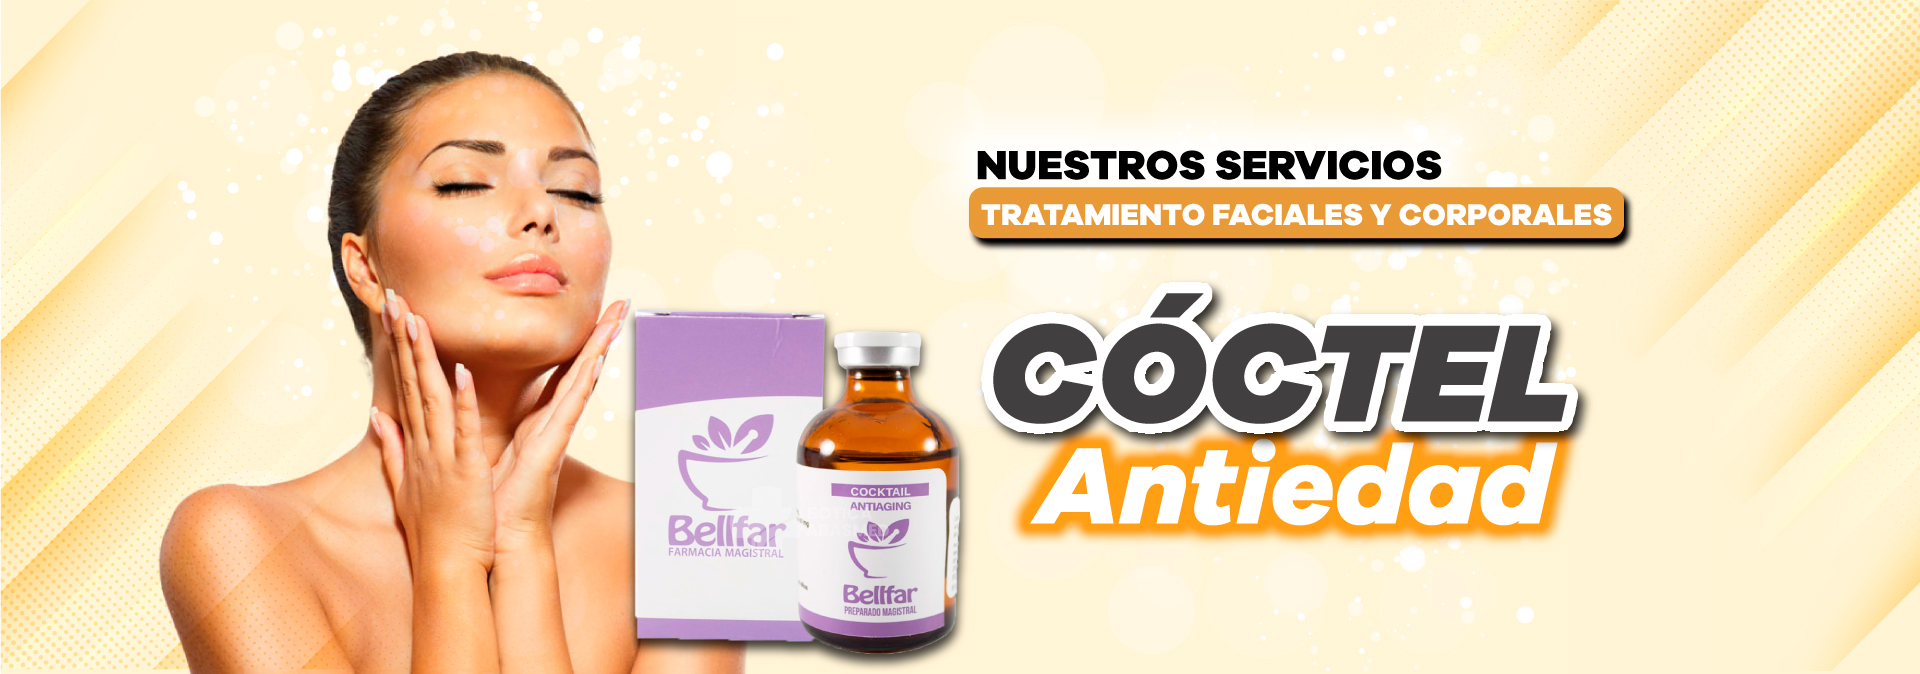
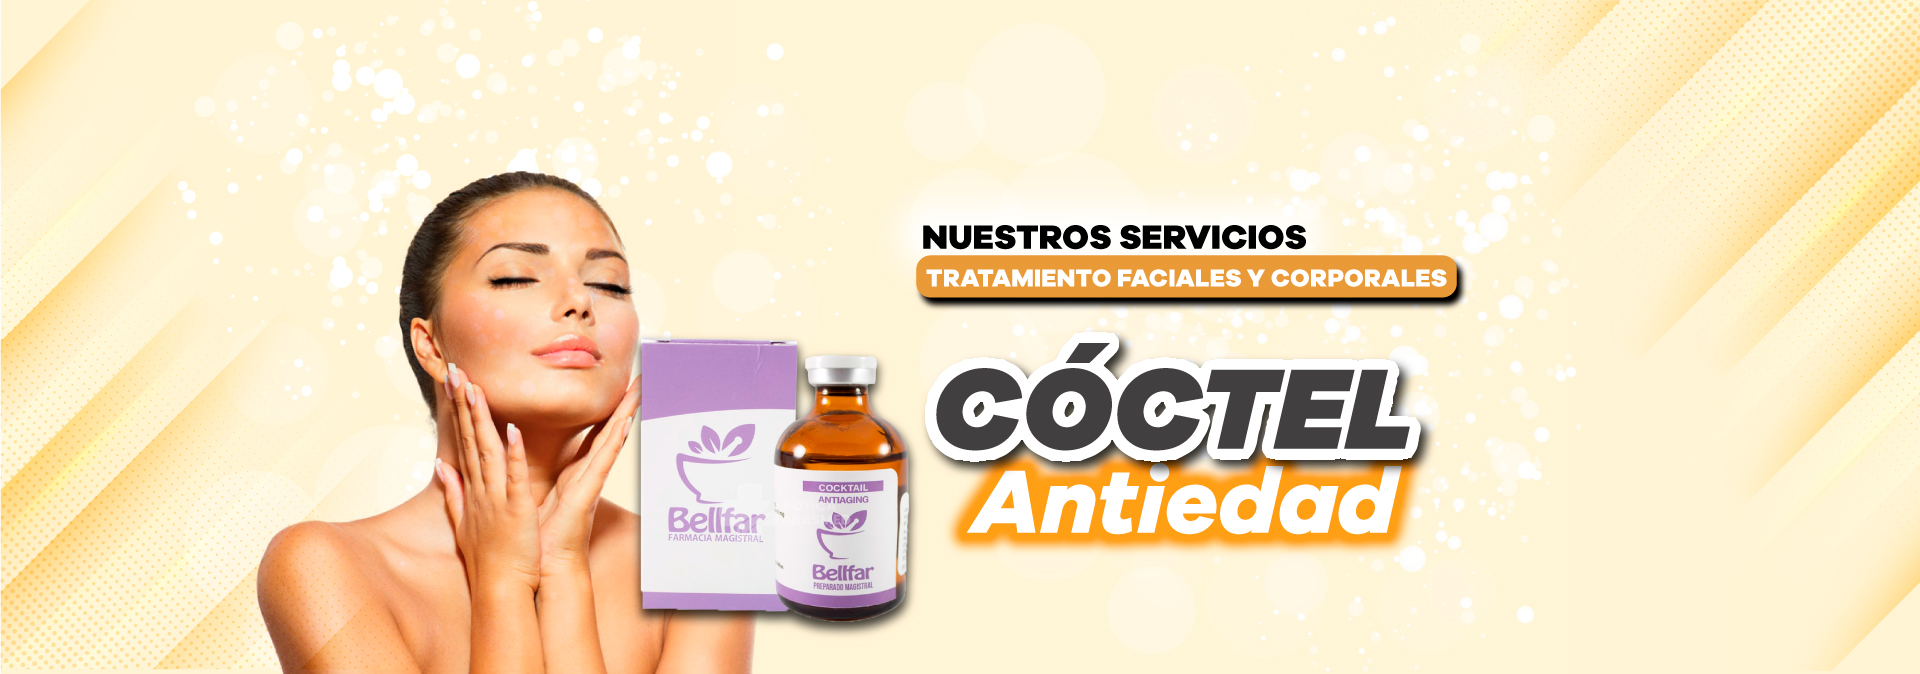
Commit: Agregando la informacion de la clinica

diff --git a/index.html b/index.html
@@ -8,6 +8,7 @@
 </head>
 <body>
 
+
   <!-- Top Bar -->
   <header>
     <div class="top-bar">
@@ -32,42 +33,65 @@
   <!-- Carrusel principal -->
   <section class="carousel">
     <div class="slides">
+      <div class="slide" style="background-image: url('imagenes/banner-3.jpg');"></div>
       <div class="slide" style="background-image: url('imagenes/banner-1.jpg');"></div>
-      <div class="slide" style="background-image: url('imagenes/banner-2.jpg');"></div>
-      <div class="slide" style="background-image: url('imagenes/baner.jpg.jpeg');"></div>
+           <div class="slide" style="background-image: url('imagenes/banner-2.jpg');"></div>
+      
     </div>
-    <div class="hero-overlay">
-      <h2>Especialistas en definir tu belleza</h2>
-      <p>Cirugía Plástica y Estética en Chiclayo</p>
-      <a href="#contacto" class="btn-cita">Separar Cita</a>
-    </div>
+  
   </section>
+
+
+
 
   <!-- Sección Quiénes somos -->
   <section id="quienes" class="quienes-somos">
-    <h2>Quiénes somos</h2>
-    <p>Somos Clínica REVITALIZA, Cirugía Plástica y Estética. Nuestros tratamientos son el complemento perfecto para cuidar tu salud y a la vez obtener los mejores beneficios para sentirte y verte bien.</p>
-    <p>Contamos con médicos especialistas con más de 15 años de experiencia, aplicando protocolos de alta seguridad en lipoescultura y cirugía estética.</p>
+    <h2>Especialistas en definir tu belleza</h2>
+    <p>¡Hola! Somos Clínica REVITALIZA, Cirugía Plástica y Estética . 
+  Nuestros tratamientos son el complemento perfecto para cuidar tu 
+  salud y a la vez obtener los mejores beneficios para sentirte y verte 
+  bien. Contamos con un selecto sta de médicos especialistas 
+  altamente competentes con más de 15 años de experiencia, 
+  quienes constantemente actualizan sus conocimientos para 
+  brindarte el mejor de los servicios.
+  Nuestra misión es “Realzar la belleza natural y crear nexos de 
+  confianza con nuestros pacientes”; por ese motivo, trabajamos 
+  bajo un Protocolo de Alta Seguridad en Lipoescultura y Cirugía 
+  Estética, que garantiza intervenciones seguras y con resultados 
+  eficientes, que no comprometen la integridad ni la salud de 
+  nuestros pacientes.</p>
+
+
   </section>
 
   <!-- Sección Servicios -->
   <section id="servicios" class="servicios">
-    <h2>Nuestros Servicios</h2>
-    <ul>
-      <li>✅ PRP Dermapen</li>
-      <li>✅ Toxina Botulínica Full Face</li>
-      <li>✅ Ácido Hialurónico</li>
-      <li>✅ Radiesse Estimulador</li>
-      <li>✅ Plasma Rico en Plaquetas Capilares</li>
-      <li>✅ Peptonas TONEGIRL</li>
-      <li>✅ Mesoterapia con Ácido Tranexámico</li>
-      <li>✅ Sculptra Bioestimulador</li>
-    </ul>
+    <h2>Principales Especialidades y
+ Tratamientos</h2>
+
+     <section class="image-galery">
+        
+        <div class="image-card">
+        <img src="servicios/1.jpg" alt="Descripción de la imagen 1">
+        <h3 class="image-title">Código HTML con la estructura BEM</h3>
+      </div>
+
+      <div class="image-card">
+      <img src="servicios/2.jpg" alt="Descripción de la imagen 2">
+      <h3 class="image-title">Aquí se observa como queda en CSS dicha nomenclatura</h3>
+     </div>
+  </section>
+
+
   </section>
 
   <!-- Sección Sede -->
   <section id="sedes" class="sede">
     <h2>¡Encuéntranos en Sede Chiclayo!</h2>
+
+
+   <iframe class="ubicacion" src="https://www.google.com/maps/embed?pb=!1m18!1m12!1m3!1d3961.9689255967282!2d-79.8384004!3d-6.773636599999999!2m3!1f0!2f0!3f0!3m2!1i1024!2i768!4f13.1!3m3!1m2!1s0x904cef2855da6aaf%3A0x63750422f166f2c2!2sTorres%20Paz%20714%2C%20Chiclayo%2014001!5e0!3m2!1ses!2spe!4v1751090313506!5m2!1ses!2spe" 
+   allowfullscreen="" loading="lazy" referrerpolicy="no-referrer-when-downgrade"></iframe>
     <p>📍 Calle Torres Paz #714 (Entre 7 de Enero y Av. Balta)</p>
     <p>🕒 Lunes a Sábado: 9:00AM - 8:00PM | Domingo: Consultas por WhatsApp</p>
   </section>

diff --git a/css/styles.css b/css/styles.css
@@ -115,7 +115,7 @@ header {
 
 .carousel {
   width: 100vw;
-  height: 70vh;
+  height: 50vh;
   overflow: hidden;
   display: flex;
   align-items: center;
@@ -127,7 +127,7 @@ header {
   top: 0;
   left: 0;
   width: 100%;
-  height: 100%;
+  height: 80%;
   display: flex;
   animation: slide 12s infinite;
 }
@@ -147,38 +147,14 @@ header {
   100% { transform: translateX(0%); }
 }
 
-.hero-overlay {
-  position: relative;
-  background-color: rgba(0, 0, 0, 0.5);
-  padding: 2em;
-  border-radius: 10px;
-  color: white;
-  text-align: center;
-  z-index: 1;
-}
 
-/* Botón principal */
-.btn-cita {
-  display: inline-block;
-  margin-top: 1.5em;
-  background: var(--primary);
-  color: white;
-  padding: 0.75em 1.5em;
-  border-radius: 30px;
-  text-decoration: none;
-  font-weight: bold;
-  box-shadow: 0 4px 8px var(--shadow);
-  transition: background 0.3s ease, transform 0.2s ease;
-}
 
-.btn-cita:hover {
-  background: orangered;
-  transform: scale(1.05);
-}
 
-/* ==============================
-   SECCIONES GENERALES
-================================ */
+
+
+
+
+/* SECCIONES GENERALES */
 section {
   padding: 3em 1.5em;
   max-width: 1500px;
@@ -199,30 +175,71 @@ h2 {
   margin-bottom: 1em;
   text-align: center;
   font-size: 1.05em;
+  justify-content:center;
+  
+
+
+  
 }
+
+
+.ubicacion{
+  
+  display: block;
+  margin: 0 auto;
+  border-radius: 8px;
+  border: 2px solid  orangered;
+  width: 800px;
+  height: 450px;
+ 
+  margin-bottom: 15px;
+
+  }
+
 
 /* ==============================
    SERVICIOS
 ================================ */
-.servicios ul {
-  list-style: none;
-  display: grid;
-  grid-template-columns: repeat(auto-fit, minmax(220px, 1fr));
-  gap: 1em;
-  padding: 0;
+
+
+
+
+/* Galería con centrado */
+.image-galery {
+  display: flex;
+  justify-content: center;
+  align-items: flex-start;
+  gap: 2rem;
+  padding: 1rem 1rem;
+  flex-wrap: wrap; /* para que sea responsive */
+
 }
 
-.servicios li {
-  background: var(--gray);
-  padding: 1em;
-  border-left: 5px solid var(--primary);
-  border-radius: 8px;
-  transition: transform 0.2s;
+/* Cada imagen con su título */
+
+.image-card {
+  text-align: center;
+  max-width: 400px;
+  
 }
 
-.servicios li:hover {
-  transform: translateY(-5px);
+/* Estilo de las imágenes */
+.image-card img {
+  
+  width: 100%;
+  height: auto;
+  border-radius: 10px;
+  border: #5c7cfa;
 }
+
+/* Título de la imagen */
+.image-title {
+  margin-top: 0.75rem;
+  font-size: 1.1rem;
+  color: #333;
+}
+
+
 
 /* ==============================
    CONTACTO
